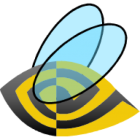
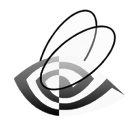
Working indicator

diff --git a/src/python/pl/wavesoftware/unity/indicator.py b/src/python/pl/wavesoftware/unity/indicator.py
@@ -1,33 +1,84 @@
 
+import config
+import logging
 import sys
 import gtk
 import appindicator
+import os.path
+from pl.wavesoftware.bumblebee import Optimus
 
 class BumblebeeIndicator:
-    def __init__(self):
-        self.ind = appindicator.Indicator("new-gmail-indicator",
-                                           "indicator-messages",
-                                           appindicator.CATEGORY_APPLICATION_STATUS)
-        self.ind.set_status(appindicator.STATUS_ACTIVE)
-        self.ind.set_attention_icon("new-messages-red")
+	
+	BUMBLEBEE_ICON = config.get_resource('bumblebee-icon.png')
+	BUMBLEBEE_ICON_ACTIVE = config.get_resource('bumblebee-icon-active.png')
+	BUMBLEBEE_ICON_DUAL = config.get_resource('bumblebee-icon-dual.png')
+	
+	def __init__(self):
+		self.__ind = appindicator.Indicator("bumblebee-indicator", "", appindicator.CATEGORY_APPLICATION_STATUS)
+		self.__ind.set_status(appindicator.STATUS_ACTIVE)
+		self.__ind.set_icon(BumblebeeIndicator.BUMBLEBEE_ICON)
+		self.__ind.set_attention_icon(BumblebeeIndicator.BUMBLEBEE_ICON_ACTIVE)
 
-        self.menu_setup()
-        self.ind.set_menu(self.menu)
+		self.__menu = self.__menu_setup()
+		self.__ind.set_menu(self.__menu)
+		
+		self.__optimus = Optimus()
 
-    def menu_setup(self):
-        self.menu = gtk.Menu()
-        
-        self.dual_item = gtk.MenuItem("Dual screen: on")
-        self.dual_item.show()
-        self.menu.append(self.dual_item)
+	def __menu_setup(self):
+		menu = gtk.Menu()
+		
+		item = gtk.CheckMenuItem("Nvidia Optimus")
+		item.show()
+		item.set_active(False)
+		item.set_sensitive(False)
+		menu.append(item)
+		self.__optimus_item = item
+		
+		item = gtk.CheckMenuItem("Dual monitor")
+		item.show()
+		item.set_active(False)
+		menu.append(item)
+		self.__dual_item = item
 
-        self.quit_item = gtk.MenuItem("Quit")
-        self.quit_item.connect("activate", self.quit)
-        self.quit_item.show()
-        self.menu.append(self.quit_item)
+		item = gtk.MenuItem("Quit")
+		item.connect("activate", self.quit)
+		item.show()
+		menu.append(item)
+		return menu
+		
+	def __update_dual(self, dual):
+		curr = dual.is_active()
+		displ = self.__dual_item.get_active()
+		if curr != displ:
+			self.__dual_item.set_active(curr)
+		icon = self.__ind.get_attention_icon()
+		if curr and icon != BumblebeeIndicator.BUMBLEBEE_ICON_DUAL:
+			self.__ind.set_attention_icon(BumblebeeIndicator.BUMBLEBEE_ICON_DUAL)
+		if not curr and icon == BumblebeeIndicator.BUMBLEBEE_ICON_DUAL:
+			self.__ind.set_attention_icon(BumblebeeIndicator.BUMBLEBEE_ICON_ACTIVE)
+		
+	def __check_status(self):
+		displ = self.__optimus_item.get_active()
+		curr = self.__optimus.is_active()
+		
+		if curr != displ:
+			self.__optimus_item.set_active(curr)
+			if curr:
+				dual = self.__optimus.dual_monitor()
+				self.__update_dual(dual)
+				self.__ind.set_status(appindicator.STATUS_ATTENTION)
+			else:
+				self.__ind.set_status(appindicator.STATUS_ACTIVE)
+		return True
 
-    def main(self):
-        gtk.main()
-
-    def quit(self, widget):
-        sys.exit(0)
+	def main(self):
+		gtk.timeout_add(config.PING_FREQUENCY, self.__check_status)
+		try:
+			gtk.main()
+		except KeyboardInterrupt:
+			sys.exit(0)
+		except Exception, ex:
+			logging.error("Error: %s" % ex)
+			sys.exit(1)
+	def quit(self, widget):
+		sys.exit(0)

diff --git a/src/python/pl/wavesoftware/bumblebee.py b/src/python/pl/wavesoftware/bumblebee.py
@@ -1,0 +1,39 @@
+import logging
+import re
+import os.path as p
+
+class Optimus:
+	
+	class DualMonitor:
+		def __init__(self, optimus):
+			pass
+		def is_active(self):
+			# grep -q 'PMMethod=none' /etc/bumblebee/bumblebee.conf
+			proc_file = file(p.join('/', 'etc', 'bumblebee', 'bumblebee.conf'))
+			contents = proc_file.read().strip()
+			logging.debug('DualMonitor::is_active() - /etc/bumblebee/bumblebee.conf: %s' % contents[-100:-1])
+			regex = re.compile('^PMMethod=none\s*?(?:\#.*)?$', re.MULTILINE)
+			match = regex.search(contents)
+			ret = match != None
+			logging.debug('DualMonitor::is_active() %s' % repr(ret))
+			return ret
+		def turn(self, setting = True):
+			pass
+	
+	def __init__(self):
+		self.__dual = Optimus.DualMonitor(self)
+		
+	def is_active(self):
+		# cat /proc/acpi/bbswitch
+		proc_file = file(p.join('/', 'proc', 'acpi', 'bbswitch'))
+		contents = proc_file.read().strip()
+		logging.debug('Optimus::is_active() - /proc/acpi/bbswitch: %s' % repr(contents))
+		idx = contents.rfind('ON')
+		ret = idx >= 0
+		logging.debug('Optimus::is_active() => %s' % repr(ret))
+		return ret
+	
+	def dual_monitor(self):
+		return self.__dual
+	
+	

diff --git a/src/python/config.py b/src/python/config.py
@@ -1,0 +1,35 @@
+
+import os.path as p
+import logging
+
+FORMAT = '%(asctime)-15s %(levelname)-10s %(message)s'
+
+logging.basicConfig(level=logging.DEBUG, format = FORMAT)
+# logging.basicConfig(level=logging.INFO, format = FORMAT)
+
+class ConfigDict:
+	'''The recursive class for building and representing objects with.'''
+	def __init__(self, obj):
+		for k, v in obj.iteritems():
+			if isinstance(v, dict):
+				setattr(self, k, Struct(v))
+			else:
+				setattr(self, k, v)
+	def __getitem__(self, val):
+		return self.__dict__[val]
+	def __repr__(self):
+		return '{%s}' % str(', '.join('%s : %s' % (k, repr(v)) for (k, v) in self.__dict__.iteritems()))
+
+__dirname = p.dirname(p.abspath(__file__))
+
+paths = ConfigDict({
+	'python': __dirname,
+	'resources': p.join(p.dirname(__dirname), 'resources')
+})
+
+PING_FREQUENCY = 500
+
+def get_resource(*args):
+	sub = p.join(*args)
+	return p.join(paths.resources, sub)
+
